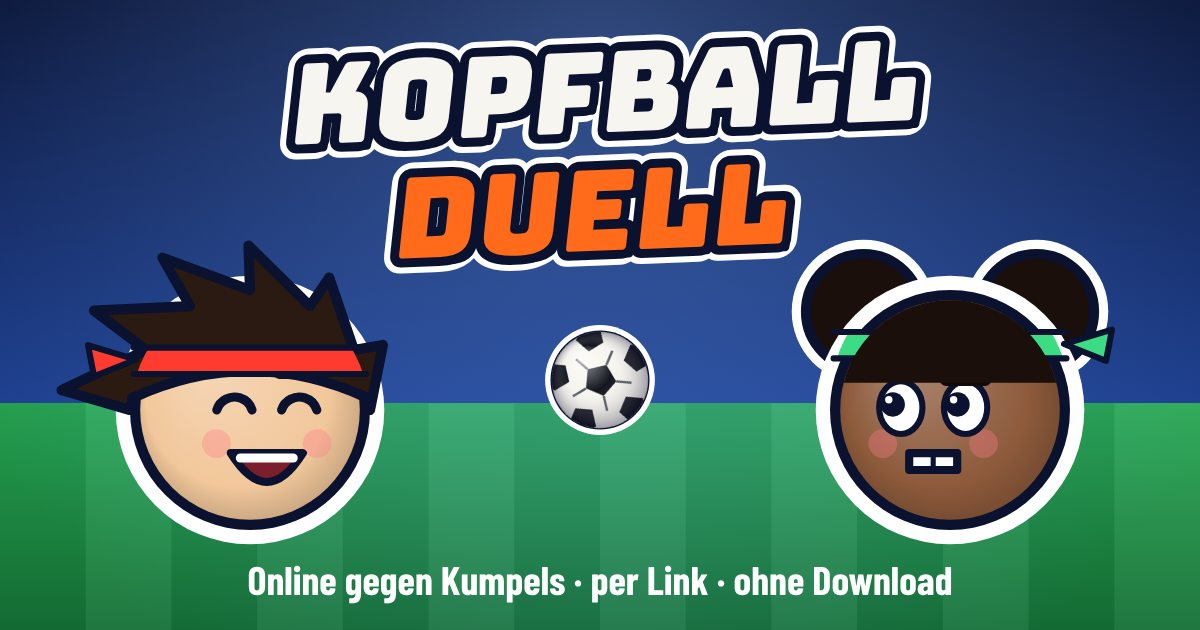
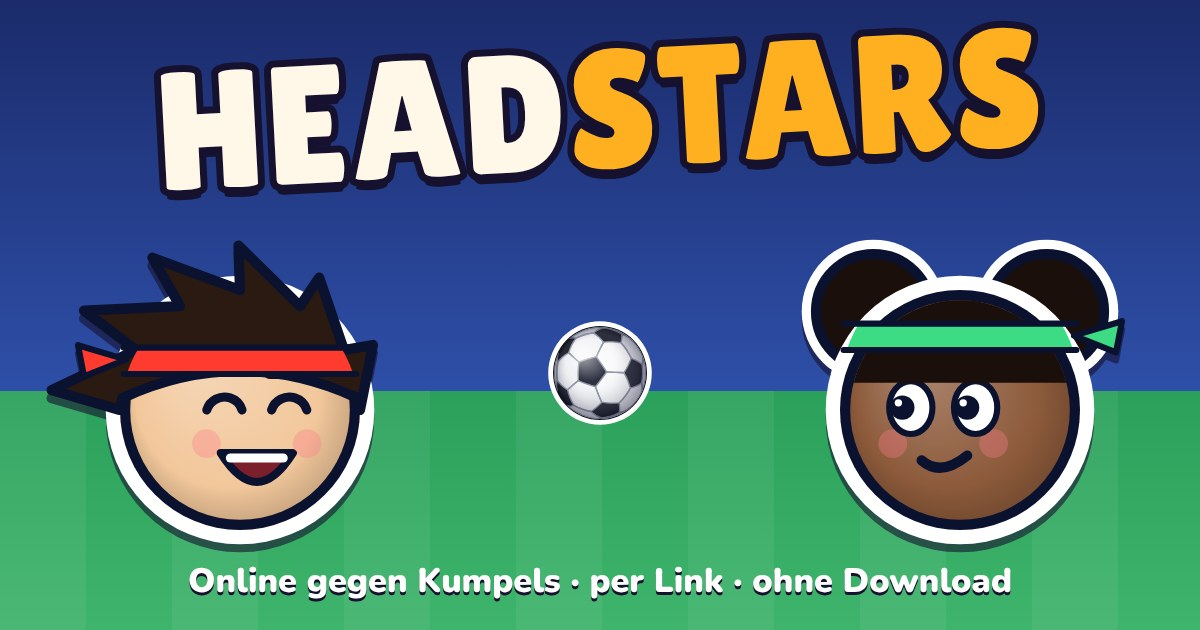
Neuer Name: Headstars (headstars.app)
Titel, Ladebildschirm, App-Name, Teilen-Texte, Neon-Leuchtschrift, Stadion-Bande,
Rechtstexte und Vorschaubild (og.jpg, jetzt mit tools/og.mjs aus den echten
Köpfen erzeugt). Interne Schlüssel (Spielstand, Online-Räume, Repo) bleiben,
sonst wären Fortschritt und Online-Spiele zwischen den Versionen kaputt.

Claude-Session: https://claude.ai/code/session_01LAwiQd3tH9vDok7k6h1ZZU

diff --git a/legal/privacy.html b/legal/privacy.html
@@ -4,7 +4,7 @@
 <head>
 <meta charset="utf-8">
 <meta name="viewport" content="width=device-width, initial-scale=1">
-<title>Datenschutzerklärung / Privacy Policy – Kopfball Duell</title>
+<title>Datenschutzerklärung / Privacy Policy – Headstars</title>
 <link rel="stylesheet" href="style.css">
 <script>
 // Sprache: ?lang=, sonst die Spielsprache, sonst der Browser. Ohne Skript stehen beide Fassungen untereinander.
@@ -26,11 +26,11 @@
 <nav data-l="de"><a href="../">← Zurück zum Spiel</a><a href="imprint.html">Impressum</a><a href="terms.html">Nutzungsbedingungen</a><a href="?lang=en" lang="en">English</a></nav>
 <div class="card">
 <h1>Datenschutzerklärung</h1>
-<p class="meta">Kopfball Duell · Stand: 06.11.2026</p><p class="note">Gelb markierte Stellen vor der Veröffentlichung ausfüllen (<code>tools/gen-legal.mjs</code>).</p>
+<p class="meta">Headstars · Stand: 06.11.2026</p><p class="note">Gelb markierte Stellen vor der Veröffentlichung ausfüllen (<code>tools/gen-legal.mjs</code>).</p>
 <h2>Verantwortlicher</h2>
 <p>Louis-Deniel Rost, c/o flexdienst – #10303, Kurt-Schumacher-Straße 76, 67663 Kaiserslautern, Deutschland, E-Mail: <span class="ph">[E-MAIL]</span> („wir“). Siehe auch das <a href="imprint.html">Impressum</a>.</p>
 <h2>Überblick</h2>
-<p>Kopfball Duell ist ein Browserspiel. Du kannst ohne Anmeldung spielen. Wir nutzen keine Analyse-Werkzeuge, keine Werbe-Tracker und keine Social-Media-Plugins. Schriften und Bibliotheken kommen von unserer eigenen Website, nicht von Dritten. Cookies setzen wir nicht.</p>
+<p>Headstars ist ein Browserspiel. Du kannst ohne Anmeldung spielen. Wir nutzen keine Analyse-Werkzeuge, keine Werbe-Tracker und keine Social-Media-Plugins. Schriften und Bibliotheken kommen von unserer eigenen Website, nicht von Dritten. Cookies setzen wir nicht.</p>
 <h2>Daten auf deinem Gerät</h2>
 <p>Das Spiel speichert seinen Stand im lokalen Speicher deines Browsers: Fortschritt, freigeschaltete Gegenstände, Einstellungen (Ton, Sprache, Grafik), das Anmelde-Token für den Spielserver und Spielergebnisse, die noch nicht gesendet werden konnten. Das ist für das Spiel nötig (Art. 6 Abs. 1 lit. b DSGVO; § 25 Abs. 2 Nr. 2 TDDDG). Du kannst es jederzeit in den Browser-Einstellungen löschen oder im Spiel unter Einstellungen → Fortschritt löschen.</p>
 <h2>Hosting</h2>
@@ -72,11 +72,11 @@
 <nav data-l="en"><a href="../">← Back to the game</a><a href="imprint.html">Legal Notice</a><a href="terms.html">Terms of Use</a><a href="?lang=de" lang="de">Deutsch</a></nav>
 <div class="card">
 <h1>Privacy Policy</h1>
-<p class="meta">Kopfball Duell · Last updated: 2026-11-06</p><p class="note">Fill in the yellow placeholders before publishing (<code>tools/gen-legal.mjs</code>).</p>
+<p class="meta">Headstars · Last updated: 2026-11-06</p><p class="note">Fill in the yellow placeholders before publishing (<code>tools/gen-legal.mjs</code>).</p>
 <h2>Who is responsible</h2>
 <p>Louis-Deniel Rost, c/o flexdienst – #10303, Kurt-Schumacher-Straße 76, 67663 Kaiserslautern, Germany, e-mail: <span class="ph">[E-MAIL]</span> ("we", "us"). See also the <a href="imprint.html">Legal Notice</a>.</p>
 <h2>Overview</h2>
-<p>Kopfball Duell is a browser game. You can play without registering. We do not use analytics, advertising trackers or social-media plugins. Fonts and libraries are served from our own website, not from third parties. We do not set cookies.</p>
+<p>Headstars is a browser game. You can play without registering. We do not use analytics, advertising trackers or social-media plugins. Fonts and libraries are served from our own website, not from third parties. We do not set cookies.</p>
 <h2>Data stored on your device</h2>
 <p>The game stores its state in your browser's local storage: progress, unlocked items, settings (sound, language, graphics), the login token for the game server and match results that could not be sent yet. This is necessary to provide the game (Art. 6(1)(b) GDPR; § 25(2) no. 2 TDDDG). You can delete it at any time in your browser settings or in the game under Settings → Delete progress.</p>
 <h2>Hosting</h2>

diff --git a/legal/terms.html b/legal/terms.html
@@ -4,7 +4,7 @@
 <head>
 <meta charset="utf-8">
 <meta name="viewport" content="width=device-width, initial-scale=1">
-<title>Nutzungsbedingungen / Terms of Use – Kopfball Duell</title>
+<title>Nutzungsbedingungen / Terms of Use – Headstars</title>
 <link rel="stylesheet" href="style.css">
 <script>
 // Sprache: ?lang=, sonst die Spielsprache, sonst der Browser. Ohne Skript stehen beide Fassungen untereinander.
@@ -26,9 +26,9 @@
 <nav data-l="de"><a href="../">← Zurück zum Spiel</a><a href="imprint.html">Impressum</a><a href="privacy.html">Datenschutzerklärung</a><a href="?lang=en" lang="en">English</a></nav>
 <div class="card">
 <h1>Nutzungsbedingungen</h1>
-<p class="meta">Kopfball Duell · Stand: 06.11.2026</p><p class="note">Gelb markierte Stellen vor der Veröffentlichung ausfüllen (<code>tools/gen-legal.mjs</code>).</p>
+<p class="meta">Headstars · Stand: 06.11.2026</p><p class="note">Gelb markierte Stellen vor der Veröffentlichung ausfüllen (<code>tools/gen-legal.mjs</code>).</p>
 <h2>Geltungsbereich</h2>
-<p>Diese Bedingungen gelten für die Nutzung des Browserspiels Kopfball Duell („das Spiel“), angeboten von Louis-Deniel Rost (siehe <a href="imprint.html">Impressum</a>). Mit dem Spielen akzeptierst du sie. Zwingende Verbraucherschutzvorschriften deines Wohnsitzlandes bleiben unberührt.</p>
+<p>Diese Bedingungen gelten für die Nutzung des Browserspiels Headstars („das Spiel“), angeboten von Louis-Deniel Rost (siehe <a href="imprint.html">Impressum</a>). Mit dem Spielen akzeptierst du sie. Zwingende Verbraucherschutzvorschriften deines Wohnsitzlandes bleiben unberührt.</p>
 <h2>Alter</h2>
 <p>Das Spiel richtet sich an Spieler ab 16 Jahren. Jüngere brauchen für ein Konto und Online-Spiele die Zustimmung ihrer Eltern.</p>
 <h2>Konten</h2>
@@ -62,9 +62,9 @@
 <nav data-l="en"><a href="../">← Back to the game</a><a href="imprint.html">Legal Notice</a><a href="privacy.html">Privacy Policy</a><a href="?lang=de" lang="de">Deutsch</a></nav>
 <div class="card">
 <h1>Terms of Use</h1>
-<p class="meta">Kopfball Duell · Last updated: 2026-11-06</p><p class="note">Fill in the yellow placeholders before publishing (<code>tools/gen-legal.mjs</code>).</p>
+<p class="meta">Headstars · Last updated: 2026-11-06</p><p class="note">Fill in the yellow placeholders before publishing (<code>tools/gen-legal.mjs</code>).</p>
 <h2>Scope</h2>
-<p>These terms apply to the use of the browser game Kopfball Duell (the "Game") provided by Louis-Deniel Rost (see <a href="imprint.html">Legal Notice</a>). By playing you accept them. Mandatory consumer protection law of your country of residence remains unaffected.</p>
+<p>These terms apply to the use of the browser game Headstars (the "Game") provided by Louis-Deniel Rost (see <a href="imprint.html">Legal Notice</a>). By playing you accept them. Mandatory consumer protection law of your country of residence remains unaffected.</p>
 <h2>Age</h2>
 <p>The Game is intended for players aged 16 and over. Younger players need a parent's or guardian's consent to create an account and play online.</p>
 <h2>Accounts</h2>

diff --git a/tools/og/index.html b/tools/og/index.html
@@ -1,0 +1,38 @@
+<!doctype html>
+<!-- Vorschaubild für geteilte Links (og.jpg, 1200×630). Erzeugt mit: node tools/og.mjs -->
+<html lang="de">
+<head>
+<meta charset="utf-8">
+<style>
+@font-face { font-family: "Lilita One"; src: url("../../fonts/lilita.woff2") format("woff2"); }
+@font-face { font-family: Nunito; src: url("../../fonts/nunito-900.woff2") format("woff2"); font-weight: 900; }
+html, body { margin: 0; }
+#og { position: relative; width: 1200px; height: 630px; overflow: hidden; background: linear-gradient(#1b2b6b, #2e4fa8 62%, #2aa05a 62%, #3fb46c); font-family: "Lilita One", Impact, sans-serif; }
+#og::after { content: ""; position: absolute; inset: 62% 0 0; background: repeating-linear-gradient(90deg, rgb(255 255 255 / 6%) 0 86px, transparent 86px 172px); }
+h1 { position: absolute; top: 34px; left: 0; right: 0; margin: 0; text-align: center; font-weight: 400; font-size: 168px; line-height: .9; letter-spacing: 2px; transform: rotate(-3deg); z-index: 2;
+  color: #fff8e8; -webkit-text-stroke: 14px #15112e; paint-order: stroke fill; text-shadow: 0 10px 0 #15112e; }
+h1 span { color: #ffb020; }
+.head { position: absolute; bottom: 40px; z-index: 3; filter: drop-shadow(0 8px 0 rgb(21 17 46 / 60%)); }
+#h0 { left: 40px; } #h1 { right: 40px; }
+#ball { position: absolute; left: 545px; top: 318px; z-index: 3; }
+p { position: absolute; bottom: 26px; left: 0; right: 0; margin: 0; text-align: center; z-index: 4; font: 900 34px Nunito, sans-serif; color: #fff; text-shadow: 0 3px 0 #15112e; }
+</style>
+</head>
+<body>
+<div id="og">
+  <h1>HEAD<span>STARS</span></h1>
+  <div class="head" id="h0"></div><div class="head" id="h1"></div><div id="ball"></div>
+  <p>Online gegen Kumpels · per Link · ohne Download</p>
+</div>
+<script type="module">
+import { avatarCanvas, drawBall } from "../../js/ui/render/art.js";
+const q = new URLSearchParams(location.search), heads = (q.get("heads") || "kalle,nala").split(",");
+await document.fonts.load("168px 'Lilita One'"); await document.fonts.load("900 34px Nunito");
+document.getElementById("h0").append(avatarCanvas(heads[0], 400, { dir: 1, mood: "happy" }));
+document.getElementById("h1").append(avatarCanvas(heads[1], 400, { dir: -1 }));
+const c = document.createElement("canvas"); c.width = c.height = 110; const x = c.getContext("2d");
+drawBall(x, "klassik", 55, 55, 46, 0.4, 1, null, { t: 1 }); document.getElementById("ball").append(c);
+document.body.dataset.ready = "1";
+</script>
+</body>
+</html>

diff --git a/index.html b/index.html
@@ -3,10 +3,10 @@
 <head>
 <meta charset="utf-8">
 <meta name="viewport" content="width=device-width,initial-scale=1,viewport-fit=cover,user-scalable=no">
-<title>Kopfball Duell</title>
+<title>Headstars</title>
 <meta name="description" content="Head Soccer im Browser: 12 Köpfe mit Spezialschüssen, Power-ups, Cup und online gegen Kumpels per Link. Kostenlos, ohne Download.">
 <meta name="theme-color" content="#1a3fc4">
-<meta property="og:title" content="Kopfball Duell – fordere mich heraus!">
+<meta property="og:title" content="Headstars – fordere mich heraus!">
 <meta property="og:description" content="Head Soccer im Browser. Online gegen Kumpels per Link, Spezialschüsse, Power-ups. Ohne Download.">
 <meta property="og:image" content="https://louisrostdevelop.github.io/kopfball-duell/og.jpg">
 <meta property="og:url" content="https://louisrostdevelop.github.io/kopfball-duell/">
@@ -419,7 +419,7 @@
 </div>
 <div id="modal" hidden><div class="modalcard" id="modalCard"></div></div>
 <div id="rotate" hidden><div class="phone"></div><b data-i18n="html.pause.handyDrehen">Handy drehen</b><span data-i18n="html.pause.querSpieltEsSich">Quer spielt es sich viel besser.</span></div>
-<div id="loading"><b class="ld-logo"><span>Kopfball</span><br><span>Duell</span></b><div class="ball"></div></div>
+<div id="loading"><b class="ld-logo"><span>Head</span><br><span>stars</span></b><div class="ball"></div></div>
 
 <script type="module" src="js/main.js?v=24"></script>
 </body>

diff --git a/js/ui/render/render.js b/js/ui/render/render.js
@@ -403,7 +403,7 @@ function bgNeon(b, R) {
     }
   });
   b.font = "34px 'Lilita One', Impact"; b.textAlign = "center";
-  [["KOPFBALL", 260, 200, "#22d3ee"], ["DUELL", W - 260, 180, "#ff4fd8"]].forEach(([t, x, y, c]) => { b.shadowColor = c; b.shadowBlur = 24; b.fillStyle = c; b.fillText(t, x, y); });
+  [["HEAD", 260, 200, "#22d3ee"], ["STARS", W - 260, 180, "#ff4fd8"]].forEach(([t, x, y, c]) => { b.shadowColor = c; b.shadowBlur = 24; b.fillStyle = c; b.fillText(t, x, y); });
   b.shadowBlur = 0;
   b.fillStyle = "#120828"; b.fillRect(R.x0, FT - 10, R.x1 - R.x0, G - FT + 10);
   b.strokeStyle = "rgba(255,79,216,.45)"; b.lineWidth = 2;
@@ -479,9 +479,9 @@ function boards(st, t) {
   ctx.save(); ctx.beginPath(); ctx.rect(-900, y, W + 1800, h); ctx.clip();
   ctx.fillStyle = st.arena === "eis" ? "#0b2533" : "#08102a"; ctx.fillRect(-900, y, W + 1800, h);
   ctx.font = "17px 'Lilita One', Impact"; ctx.textBaseline = "middle"; ctx.textAlign = "left";
-  const msg = "KOPFBALL DUELL  •  ", /* i18n-ok: Marke */ off = (t * 50) % 290;
+  const msg = "HEADSTARS  •  ", /* i18n-ok: Marke */ sp = ctx.measureText(msg).width + 24, off = (t * 50) % sp;
   ctx.fillStyle = st.arena === "eis" ? "rgba(140,220,255,.7)" : "rgba(160,190,255,.55)";
-  for (let i = -6; i < 12; i++) ctx.fillText(msg, i * 290 - off, y + h / 2 + 1);
+  for (let i = -9; i < 18; i++) ctx.fillText(msg, i * sp - off, y + h / 2 + 1);
   ctx.restore();
 }
 

diff --git a/js/content/i18n/de.js b/js/content/i18n/de.js
@@ -727,7 +727,7 @@ export default {
   "lobby.qrAlt": "QR-Code zum Beitreten",
   "lobby.ready": "{name} ist bereit. Anpfiff, wenn du willst!",
   "lobby.sendLink": "Schick den Link. Sobald dein Kumpel ihn öffnet, ist er hier.",
-  "lobby.shareText": "Kopfball Duell gegen mich? Tipp auf den Link: {link}",
+  "lobby.shareText": "Headstars gegen mich? Tipp auf den Link: {link}",
   "lobby.waitFor": "Warte, bis {name} anpfeift.",
   "lobby.waiting": "Warte…",
   "lobby.wantsRematch": "{name} will Revanche!",
@@ -881,9 +881,9 @@ export default {
   "setup.kickoff": "Anpfiff",
   "setup.needCoins": "Dafür brauchst du {n} Münzen",
   "setup.unlocked": "{name} freigeschaltet!",
-  "share.local": "{p1} {a}:{b} {p2} in Kopfball Duell {url}",
-  "share.lost": "{a}:{b} verloren in Kopfball Duell. Wer rächt mich? {url}",
-  "share.won": "{a}:{b} gegen {opp} gewonnen in Kopfball Duell. Traust du dich? {url}",
+  "share.local": "{p1} {a}:{b} {p2} in Headstars {url}",
+  "share.lost": "{a}:{b} verloren in Headstars. Wer rächt mich? {url}",
+  "share.won": "{a}:{b} gegen {opp} gewonnen in Headstars. Traust du dich? {url}",
   "shop.ballPattern": "Ballmuster",
   "shop.bought": "{name} gekauft!",
   "shop.buyFailed": "Kauf hat nicht geklappt",

diff --git a/js/content/i18n/en.js b/js/content/i18n/en.js
@@ -726,7 +726,7 @@ export default {
   "lobby.qrAlt": "QR code to join",
   "lobby.ready": "{name} is ready. Kick off when you like!",
   "lobby.sendLink": "Send the link. As soon as your buddy opens it, they'll be here.",
-  "lobby.shareText": "Kopfball Duell against me? Tap the link: {link}",
+  "lobby.shareText": "Headstars against me? Tap the link: {link}",
   "lobby.waitFor": "Waiting for {name} to kick off.",
   "lobby.waiting": "Waiting…",
   "lobby.wantsRematch": "{name} wants a rematch!",
@@ -880,9 +880,9 @@ export default {
   "setup.kickoff": "Kick-off",
   "setup.needCoins": "You need {n} coins for this",
   "setup.unlocked": "{name} unlocked!",
-  "share.local": "{p1} {a}:{b} {p2} in Kopfball Duell {url}",
-  "share.lost": "Lost {a}:{b} in Kopfball Duell. Who will avenge me? {url}",
-  "share.won": "Won {a}:{b} against {opp} in Kopfball Duell. Dare to take me on? {url}",
+  "share.local": "{p1} {a}:{b} {p2} in Headstars {url}",
+  "share.lost": "Lost {a}:{b} in Headstars. Who will avenge me? {url}",
+  "share.won": "Won {a}:{b} against {opp} in Headstars. Dare to take me on? {url}",
   "shop.ballPattern": "Ball pattern",
   "shop.bought": "{name} bought!",
   "shop.buyFailed": "Purchase failed",

diff --git a/js/ui/screens/online.js b/js/ui/screens/online.js
@@ -85,6 +85,6 @@ export function initOnline() {
   $("btnLobbyStart").onclick = () => { A.sfx("click"); hostStart(); };
   $("btnLobbyRules").onclick = () => { A.sfx("click"); App.netCfg.rules = App.netCfg.rules || {}; rulesScreen(App.netCfg.rules, () => { S.rules = { ...App.netCfg.rules }; save(); Net.send({ t: "cfg", cfg: App.netCfg }); }); };
   $("btnLobbyHead").onclick = () => { A.sfx("click"); selectScreen({ title: t("lobby.changeHead"), okText: t("ui.apply"), onDone: id => { S.char = id; save(); Net.send({ t: "pick", ch: id, lv: headLevel(id), cos: myCos() }); goBack(); } }); };
-  $("btnShare").onclick = () => { A.sfx("click"); const link = $("lobbyLink").textContent; if (link) shareOrCopy({ title: "Kopfball Duell", text: t("lobby.shareText", { link }) }); };   // i18n-ok: Marke
+  $("btnShare").onclick = () => { A.sfx("click"); const link = $("lobbyLink").textContent; if (link) shareOrCopy({ title: "Headstars", text: t("lobby.shareText", { link }) }); };   // i18n-ok: Marke
   $("btnCopyLink").onclick = () => { A.sfx("click"); const link = $("lobbyLink").textContent; if (link) copyText(link); };
 }

diff --git a/tools/sound-lab/index.html b/tools/sound-lab/index.html
@@ -28,7 +28,7 @@
 </head>
 <body>
 <div class="bar">
-  <div class="bar__title">Sound-Lab · Kopfball Duell</div>
+  <div class="bar__title">Sound-Lab · Headstars</div>
   <div class="bar__group">Musik <button class="btn" id="musOld">alt</button><button class="btn btn--new" id="musNew">neu</button><button class="btn" id="musOff">aus</button></div>
   <div class="bar__group">Publikum <button class="btn" id="crowdOld">alt</button><button class="btn btn--new" id="crowdNew">neu</button><button class="btn" id="crowdOff">aus</button></div>
   <div class="bar__group">Aufnahmen <button class="btn btn--on" id="files">an</button></div>

diff --git a/js/app/results.js b/js/app/results.js
@@ -149,5 +149,5 @@ export function shareResult() {
   let text;
   if (me >= 0) { const w = st.s[me] > st.s[1 - me]; text = t(w ? "share.won" : "share.lost", { a: st.s[me], b: st.s[1 - me], opp: App.names[1 - me], url }); }
   else text = t("share.local", { p1: App.names[0], a: st.s[0], b: st.s[1], p2: App.names[1], url });
-  shareOrCopy({ title: "Kopfball Duell", text });   // i18n-ok: Marke
+  shareOrCopy({ title: "Headstars", text });   // i18n-ok: Marke
 }

diff --git a/legal/imprint.html b/legal/imprint.html
@@ -4,7 +4,7 @@
 <head>
 <meta charset="utf-8">
 <meta name="viewport" content="width=device-width, initial-scale=1">
-<title>Impressum / Legal Notice – Kopfball Duell</title>
+<title>Impressum / Legal Notice – Headstars</title>
 <link rel="stylesheet" href="style.css">
 <script>
 // Sprache: ?lang=, sonst die Spielsprache, sonst der Browser. Ohne Skript stehen beide Fassungen untereinander.

diff --git a/js/main.js b/js/main.js
@@ -1,4 +1,4 @@
-// Kopfball Duell: Einstiegspunkt (Composition Root).
+// Headstars: Einstiegspunkt (Composition Root).
 // Hier und nur hier wird entschieden, welche Adapter das Spiel benutzt. Alles andere kennt nur die
 // Schnittstellen aus js/ports/. Für einen Server (Konto, Profil-Sync) werden hier andere Adapter eingesteckt.
 import { fireSuper } from "./core/physics.js";
